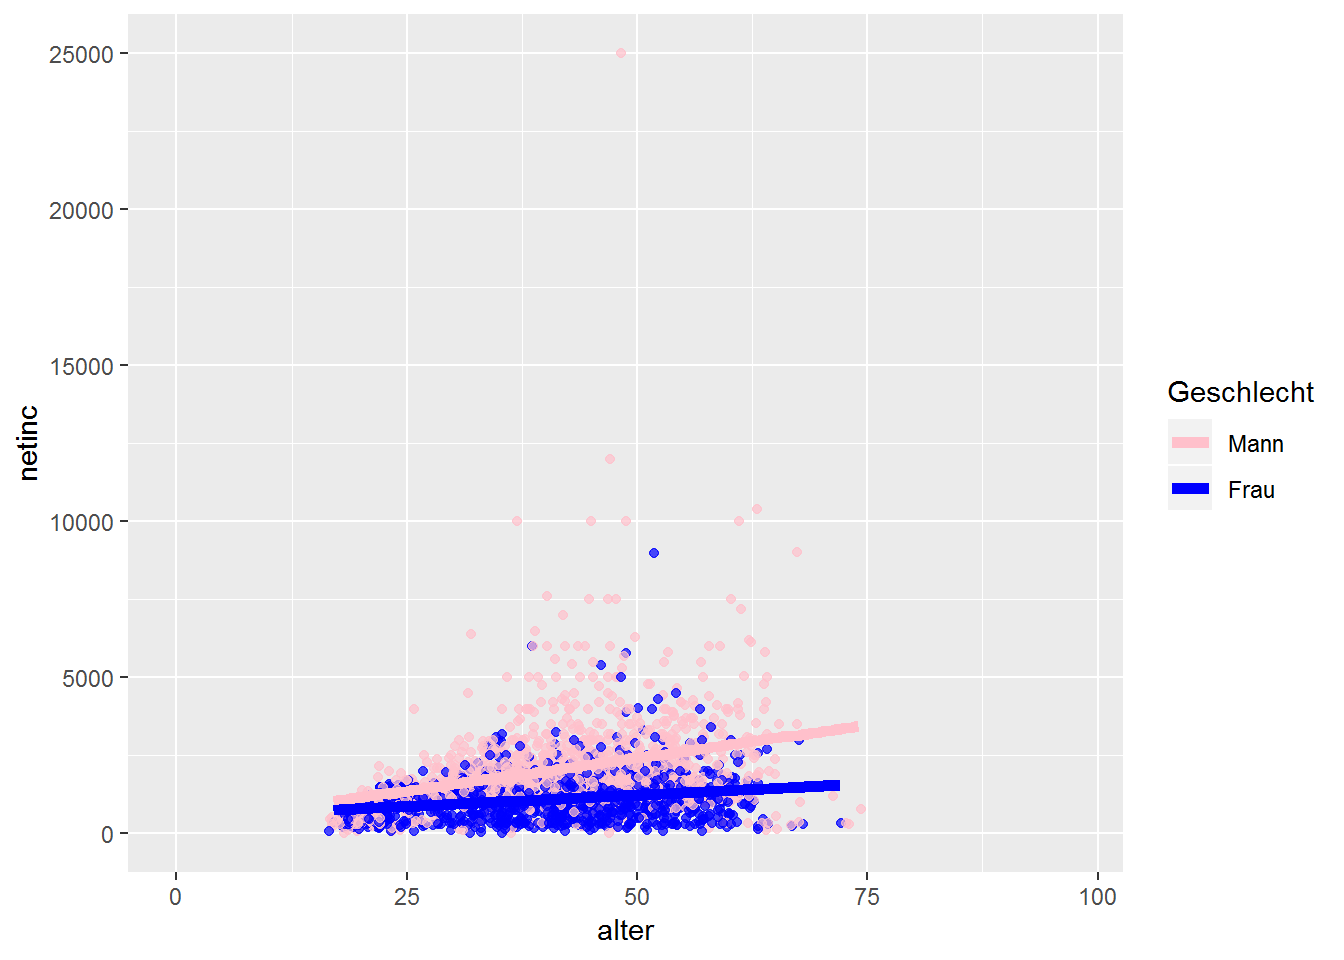
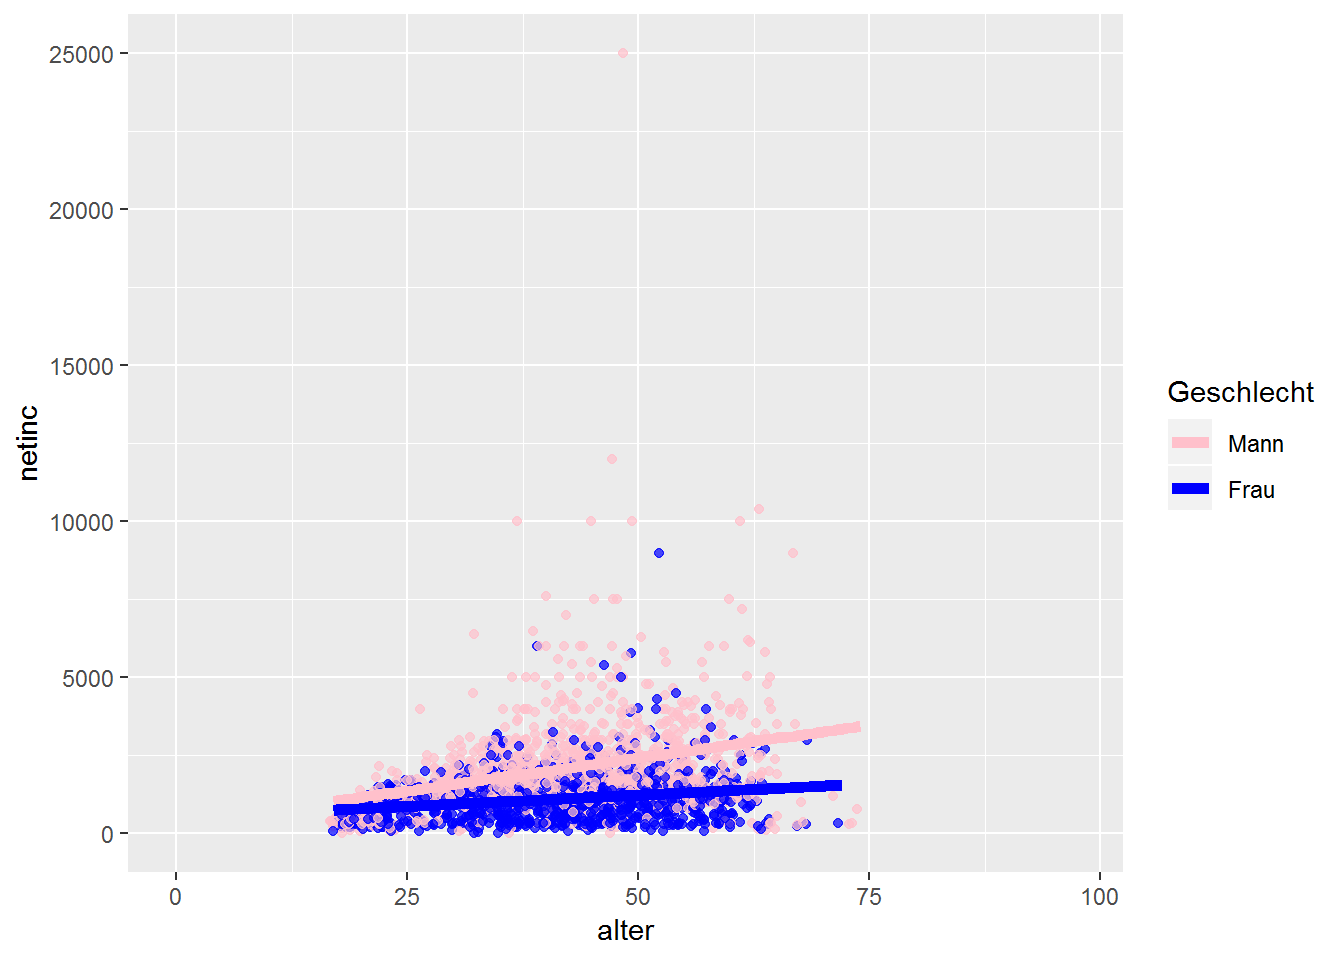
Intro finished, experimenting with downloading of files from github

diff --git a/docs/index.html b/docs/index.html
@@ -443,7 +443,13 @@ div.tocify {
 <p>We have two days, 4 hours per day.</p>
 <p>Day 1 * R Basics, Workflow in R Studio and Objects (1h) * Data Management and tidyverse (1h) + Eurostat Example: Two ways to load and install data + Destatis Example * Data Visualisations and tidyverse (1h)</p>
 <p>Day 2 * Data Visualisations (1h) * Regressions (1h) * knitr, R Notebooks (1h)</p>
-<p>R is a powerful prgramming language that is expecially well-suited for statistical analyses and the creation of graphics. It is one of the most widely used software packages in Econometrics and Applied Statistics. It is <strong>free</strong> and constantly adjusted and extended by a large user community which is why it is always up to date when it comes to the latest statistical developments.</p>
+</div>
+<div id="why-r" class="section level2">
+<h2><span class="header-section-number">1.2</span> Why R</h2>
+<p>R is a powerful programming language that is expecially well-suited for statistical analyses and the creation of graphics. It is one of the most widely used software packages in Data Science and Applied Statistics.</p>
+<p>It is <strong>free</strong> and <strong>constantly extended by a large user community</strong> - guaranteeing that latest innovations from visualisations to machine learning are always up to date in the R universe. There are over 15.000 approved R packages (reusable R functions, see below) and the number is growing <a href="https://gist.github.com/daroczig/3cf06d6db4be2bbe3368">exponentially</a>. At the same time, the R-Foundation (supported by Microsoft and Google) gives credibility to the continuance of base R itself.</p>
+<p>As it is free and extremely popular, the</p>
+<p>Finally, this might be relevant in our context: Visualizations are way prettier and user friendlier than anything Stata or SPSS even remotely have to offer (see the <a href="https://www.r-graph-gallery.com/">R-Graph Gallery</a> for a quick glimpse into what is possible).</p>
 <hr />
 </div>
 </div>
@@ -467,24 +473,29 @@ div.tocify {
 </div>
 <div id="first-step" class="section level2">
 <h2><span class="header-section-number">2.2</span> First Step</h2>
-<p>After having succesfully installed R and R-Studio open RStudio (<em>never open R directly, always access it through RStudio</em>), you should see something like this: <img src="Files/Screen1.png" alt="Test" /></p>
+<p>After having succesfully installed R and R-Studio open RStudio (<em>NEVER open R directly, always access it through RStudio</em>), you should see something like this: <img src="Files/Screen1.png" alt="Test" /></p>
 <p>The big one on the left is called <em>Console</em> and it is the plain R execution window: You can type single lines of code in there and they are executed immediately after pressing Enter.</p>
-<p>On the right hand side you see the <em>Envivonment</em>. The Environment is just a place to store variables – a set of bindings between symbols and objects. If you start up R and make an assignment, you’re adding an entry in the global environment (we’ll come back to that shortly)</p>
+<p>On the right hand side you see the <em>Envivonment</em>. The Environment is just a place to store variables – a set of bindings between symbols and objects. If you open R and make an assignment, you’re adding an entry in the global environment (we’ll come back to that shortly).</p>
 <p>On the lower lefthand side various informations about your current project can be retrieved (amongst them the Help section which explains functions). Also plots can be given a first view in that part.</p>
 <hr />
 </div>
 <div id="working-directoriesprojects" class="section level2">
 <h2><span class="header-section-number">2.3</span> Working Directories/PROJECTS</h2>
-<p>Always use projects - they make your life much easier. RStudio projects make it straightforward to divide your work into multiple contexts, each with their own working directory, workspace, history, and source documents.</p>
+<p><strong>Always</strong> use projects - they make your life much easier. RStudio projects make it straightforward to divide your work into multiple contexts, each with their own working directory, workspace, history, and source documents.</p>
 <p>It is - espcecially in the beginning - the most convenient way to source all your data (and scripts) at one place. Important: <strong>You need to designate one folder in your explorer system within which everything related to your very first project is safed.</strong></p>
-<p>To create a new project use the Create Project command (available on the Projects menu and on the global toolbar). Press: New Directory <img src="Files/projects_new.png" alt="Test" /> This creates a project file (with an .Rproj extension) within the project directory. You can use this file in your folder as a shortcut to open the project.</p>
-<p>When you simply quit a project by clsing RStudio or the project directly all files, code, .RData and RStudio settings are saved.</p>
+<p>To create a new project use the Create Project command (available on the Projects menu and on the global toolbar). Press: New Directory</p>
+<div class="figure">
+<img src="Files/projects_new.png" alt="Test" />
+<p class="caption">Test</p>
+</div>
+<p>This creates a project file (with an .Rproj extension) within the project directory. You can use this file in your folder as a shortcut to open the project.</p>
+<p>When you simply quit a project by closing RStudio or the project directly all files, code, .RData and RStudio settings are saved.</p>
 <hr />
 </div>
 </div>
 <div id="taschenrechner-1" class="section level1">
 <h1><span class="header-section-number">3</span> TaschenrechneR 1</h1>
-<p>Ok - by now we have invested a lot of time potentially doing nothing else but setting up stuff we have no use for. Can’t we get startetd right a way?</p>
+<p>Ok - by now we have invested a lot of time potentially doing nothing else but setting up stuff we have no use for. Can’t we get startetd right away?</p>
 <p>Of course - let’s do some calculations. Type the following into the Console:</p>
 <pre class="r"><code>1+1 #What might be the result</code></pre>
 <pre><code>## [1] 2</code></pre>
@@ -492,21 +503,19 @@ div.tocify {
 <p>Wow - by now we know that R has the same power as a very simple calculator. As every simple calculator, you can write only one line of code at once and cannot save anything in a larger context. This is of course problematic because we will want R to execute larger chunks of code. If we would want to multiply 1+1 in a next step by two and then in a third step divide it by four, we would have to write everything in the only available calculator line. There must be a better way around this.</p>
 <hr />
 </div>
-<div id="r-scripts" class="section level1">
-<h1><span class="header-section-number">4</span> R Scripts</h1>
-<p>Of course there is - RScripts! An RRScript contains all commands including those for reading the reaw data, data manipulation, estimation, post-estimation analyses, and the creation of graphs and tables. We can ask R to run all or some ot the commands listed in the R script at once. This is key becaus the key feature of every scientific methods is reproducibility. When relying on R Scripts we can backtrack all the changes we made to our data and the assumptions we were relying on in our analysis with a simple mouse click.</p>
+<div id="r-scripts-and-plain-text" class="section level1">
+<h1><span class="header-section-number">4</span> R Scripts and (plain) text</h1>
+<p>Of course there is - R Scripts! An R Script contains all commands including those for reading the reaw data, data manipulation, estimation, post-estimation analyses, and the creation of graphs and tables. We can ask R to run all or some ot the commands listed in the R script at once. This is key because what we are interested in for every project is reproducibility. When relying on R Scripts we can backtrack all the changes we made to our data and the assumptions we were relying on in our analysis with a simple mouse click.</p>
 <p>To open the editor for creating a new R script click on the symbol in the top left corner and choose open a new R script. Be sure to save it in the same folder where also your RProject is saved.</p>
-<p>As discovered above, the # Symbol is extremely useful because thereby we can comment on stuff without our comments being evaluated by R.</p>
-<p>Given an R script, we can send lines of code to R to be evaluated. To run the line in which the cursor is, press <strong>Ctrl+Enter</strong>. To run several lines of code, mark them with the mouse and do the same.</p>
-<p>Try it out with running the following code at once:</p>
+<p>As discovered above, the # Symbol is extremely useful because it allows you to comment on stuff without the comment itself being evaluated by R.</p>
+<p>From the R script we can “send” lines of code to R to be evaluated. To run the line in which the cursor is, press <strong>Ctrl+Enter</strong>. To run several lines of code, mark them with the mouse and do the same.</p>
+<p>Try it out with running the following code:</p>
 <pre class="r"><code>1+1</code></pre>
 <pre><code>## [1] 2</code></pre>
 <pre class="r"><code>5+(4-1)^2</code></pre>
 <pre><code>## [1] 14</code></pre>
-<pre class="r"><code># Let&#39;s try some Count Zeppelin
-# Man muß nur wollen und daran glauben, dann wird es gelingen. # This doesn&#39;t work because R doesn&#39;t know this text
-#But R does know text. Text which R knows is called a function. Very intuitive functions are:
-sqrt(4)</code></pre>
+<p>Of course, R can read and evaluate plain text. We’ll get into that on the next page. For an intuitive start, consider this:</p>
+<pre class="r"><code>sqrt(4)</code></pre>
 <pre><code>## [1] 2</code></pre>
 <pre class="r"><code>log(10)</code></pre>
 <pre><code>## [1] 2.302585</code></pre>
@@ -514,18 +523,19 @@ sqrt(4)</code></pre>
 </div>
 <div id="packages" class="section level1">
 <h1><span class="header-section-number">5</span> Packages</h1>
-<p>One more thing… R itself can operate only very basic tasks. Even you as a novice will soon discover that you need extensions to run your stuff. This extensions are called packages. They are developed by the large R users community and for free, too. If they meet certain quality criteria, they are published on the official “Comprehensive R Archive Network” (CRAN). You only have to install packages once on your computer - all you need is a simple line of code.</p>
+<p>One more thing…</p>
+<p>R itself can operate only very basic tasks. Even within todays tutorial you will soon discover that you need extensions to run your stuff. This extensions are called packages: “Packages are the fundamental units of reproducible R code. They include reusable R functions, the documentation that describes how to use them, and sample data.” (<a href="http://r-pkgs.had.co.nz/">R packages</a>) They are developed by the large R users community and for free, too. If they meet certain quality criteria, they are published on the official “Comprehensive R Archive Network” (CRAN).</p>
+<p>You only have to install packages once on your computer - all you need is a simple line of code. After having installed it once, you have to “access” it every time you begin a new project/task.</p>
 <pre class="r"><code>install.packages(&quot;package name&quot;)
 # But installing a project implies just that you have saved it on your computer.
 # To make it useable for your session you still have to open it every time (e.g. you need the following line in your script:)
 library(packagename)</code></pre>
-<p>Let’s introduce only one small package for now to understand the package functionality. The pipe %&gt;% operator from the magrittr package (which in turn is part of the <a href="https://www.tidyverse.org/">tidyverse</a>)</p>
-<p><code>x %&gt;% f(); x %&lt;&gt;% f() {magrittr}</code> The Pipe operator from the magrittr package pipes the last element of something into the first one of the next.<br />
-<code>x %&gt;% f()</code> .</p>
+<p>Let’s introduce only one small package for now to understand the package functionality. The pipe <code>%&gt;%</code> operator from the magrittr package (which in turn is part of the <a href="https://www.tidyverse.org/">tidyverse</a>).</p>
+<p>The Pipe operator pipes the last element of something into the first one of the next: <code>f(x)</code> becomes <code>x %&gt;% f()</code></p>
 <pre class="r"><code># Lets say we want to collect many numbers, perhaps all numbers from 1 to 5.
 # How do we do that? With a vector.
 # You can tell R to collect numbers in a vector with c(number, number, number)
-c(1,2,3,4, 5)</code></pre>
+c(1, 2, 3, 4, 5)</code></pre>
 <pre><code>## [1] 1 2 3 4 5</code></pre>
 <pre class="r"><code># A cooler way to write this is:
 c(1:5)</code></pre>
@@ -536,20 +546,20 @@ mean(c(1:5))</code></pre>
 <pre class="r"><code># And here comes the power of the pipe:
 # install.packages(magrittr)
 library(magrittr)
-c(1,2,3,5) %&gt;% mean()</code></pre>
+c(1, 2, 3, 5) %&gt;% mean()</code></pre>
 <pre><code>## [1] 2.75</code></pre>
 </div>
 <div id="style" class="section level1">
 <h1><span class="header-section-number">6</span> Style</h1>
 <p>Arguably not the most imporant thing right now as we are just getting started. Nevertheless, it is important to have consistent and clean code. So you may want to circle back to this section once you get started writing your own code independently.</p>
-<p>All code you’ll encounter in this</p>
-<p>The basic shortcut for the RSutdio IDE to get tidy code is a) selecting code to be reformatted and b) pressing Ctrl+Shift+A.</p>
+<p>All code you’ll encounter in this tutorial is written in tidy style (see link below).</p>
+<p>The basic shortcut for the RSutdio IDE to get tidy code is a) selecting code to be reformatted and b) pressing <code>Ctrl+Shift+A</code>.</p>
 <p>A pretty exhaustive style guide by Hadley Wickham and the tidyverse team can be found <a href="https://style.tidyverse.org/">here</a>. This builds upon the still widely referenced <a href="https://google.github.io/styleguide/Rguide.xml">Google’s R Style guide</a>.</p>
 </div>
 <div id="important-ressources" class="section level1">
 <h1><span class="header-section-number">7</span> Important Ressources</h1>
 <p><a href="https://www.stackoverflow.com/">Stackoverflow</a>: A general discussion forum for programmers, including many R users. Just google your question and make sure to place an “R” in the beginning of your question. Most often you will be directed to stackoverflow.</p>
-<p><a href="http://www.urfie.net/">Econometrics for R</a>: Great book - this class is mainly based upon it. Has some 60pages of introduction into R.</p>
+<p><a href="http://www.urfie.net/">Econometrics for R</a>: Great book - first half of this class is based upon it. Has some 60pages of introduction into R.</p>
 <p><a href="http://tryr.codeschool.com/">CodeSchool</a>: A fun and free way to learn the basics of R.</p>
 <p><strong>Cheat Sheets</strong>: Cheat Sheets are a great way to get a concise overview over the functionality and logic of the R topic they cover. to the best of my knowledge, all major packages have one. Some examples</p>
 <ul>

diff --git a/docs/datamanagement.html b/docs/datamanagement.html
@@ -499,12 +499,12 @@ econ$netinc = recode(econ$tp7602,&quot;-3=NA;-2=NA;-1=NA&quot;)
 econ_data &lt;- econ[,c(&quot;netinc&quot;,&quot;alter&quot;,&quot;sex&quot;,&quot;contract&quot;,&quot;actual&quot;,&quot;trust&quot;,&quot;rely&quot;)]
 head(econ_data)</code></pre>
 <pre><code>##       netinc alter      sex contract actual trust rely
-## 5797      NA    20 männlich     38.5   38.5     2    3
-## 12113     NA    20 männlich       NA     NA    NA   NA
-## 8380      NA    76 männlich       NA     NA     1    3
-## 1670      NA    72 weiblich       NA     NA     1    3
-## 13898     NA    21 männlich       NA     NA     2    4
-## 13996    500    42 männlich       NA   72.0     4    1</code></pre>
+## 12022     NA    18 weiblich       NA     NA     2    3
+## 2451    1100    36 weiblich       40     40     3    3
+## 3993      NA     4 weiblich       NA     NA    NA   NA
+## 10474     NA    59 männlich       NA     NA     3    2
+## 1919    1200    50 weiblich       37     37     3    1
+## 4612    1685    41 männlich       38     38     2    3</code></pre>
 <pre class="r"><code># Delete NAs
 econ_data &lt;- na.omit(econ_data)
 
@@ -513,8 +513,8 @@ econ_data &lt;- na.omit(econ_data)
 hist(econ$netinc)</code></pre>
 <p><img src="datamanagement_files/figure-html/unnamed-chunk-2-1.png" width="672" /></p>
 <pre class="r"><code>quantile(econ_data$netinc)</code></pre>
-<pre><code>##    0%   25%   50%   75%  100% 
-##    45   800  1337  1900 10388</code></pre>
+<pre><code>##   0%  25%  50%  75% 100% 
+##    0  810 1349 1950 8000</code></pre>
 <pre class="r"><code>econ_data$inc_kat &lt;- NA
 econ_data$inc_kat [econ_data$netinc &lt; quantile(econ_data$netinc)[2]] &lt;- &quot;Q1&quot;
 econ_data$inc_kat [econ_data$netinc &gt;= quantile(econ_data$netinc)[2] &amp; econ_data$netinc &lt; quantile(econ_data$netinc)[3]] &lt;- &quot;Q2&quot;
@@ -524,7 +524,7 @@ econ_data$inc_kat [econ_data$netinc &gt;= quantile(econ_data$netinc)[4] ] &lt;- 
 table(econ_data$inc_kat)</code></pre>
 <pre><code>## 
 ##  Q1  Q2  Q3  Q4 
-## 424 445 414 456</code></pre>
+## 419 422 419 422</code></pre>
 </div>
 <div id="advanced-dm-the-tidyverse" class="section level1">
 <h1><span class="header-section-number">3</span> Advanced DM: The tidyverse</h1>
@@ -538,12 +538,12 @@ table(econ_data$inc_kat)</code></pre>
 
 head(econ_data)</code></pre>
 <pre><code>##   netinc alter      sex contract actual trust rely inc_kat alter_squared
-## 1   1900    31 männlich     38.0     48     2    2      Q4           961
-## 2    600    41 weiblich     36.0     40     3    2      Q1          1681
-## 3   1280    33 männlich     38.5     43     3    3      Q2          1089
-## 4   1200    33 weiblich     20.0     20     2    3      Q2          1089
-## 5   1500    36 männlich     38.5     40     3    2      Q3          1296
-## 6   1300    42 männlich     37.0     37     3    2      Q2          1764</code></pre>
+## 1   1100    36 weiblich     40.0     40     3    3      Q2          1296
+## 2   1200    50 weiblich     37.0     37     3    1      Q2          2500
+## 3   1685    41 männlich     38.0     38     2    3      Q3          1681
+## 4   1280    37 männlich     38.5     40     3    2      Q2          1369
+## 5   1150    47 weiblich     40.0     40     3    2      Q2          2209
+## 6    790    34 weiblich     38.0     38     3    2      Q1          1156</code></pre>
 </div>
 <div id="summarise" class="section level2">
 <h2><span class="header-section-number">3.2</span> Summarise</h2>
@@ -551,8 +551,8 @@ head(econ_data)</code></pre>
 <pre class="r"><code>econ_data %&gt;% 
   summarise(mean = mean(alter,na.rm = T),
             sd = sd(alter,na.rm = T))</code></pre>
-<pre><code>##       mean      sd
-## 1 40.63657 11.8631</code></pre>
+<pre><code>##       mean       sd
+## 1 40.72473 11.54196</code></pre>
 </div>
 <div id="group_by" class="section level2">
 <h2><span class="header-section-number">3.3</span> group_by</h2>
@@ -564,7 +564,7 @@ head(econ_data)</code></pre>
 <pre><code>## # A tibble: 1 x 2
 ##    mean    sd
 ##   &lt;dbl&gt; &lt;dbl&gt;
-## 1  40.6  11.9</code></pre>
+## 1  40.7  11.5</code></pre>
 </div>
 </div>
 
